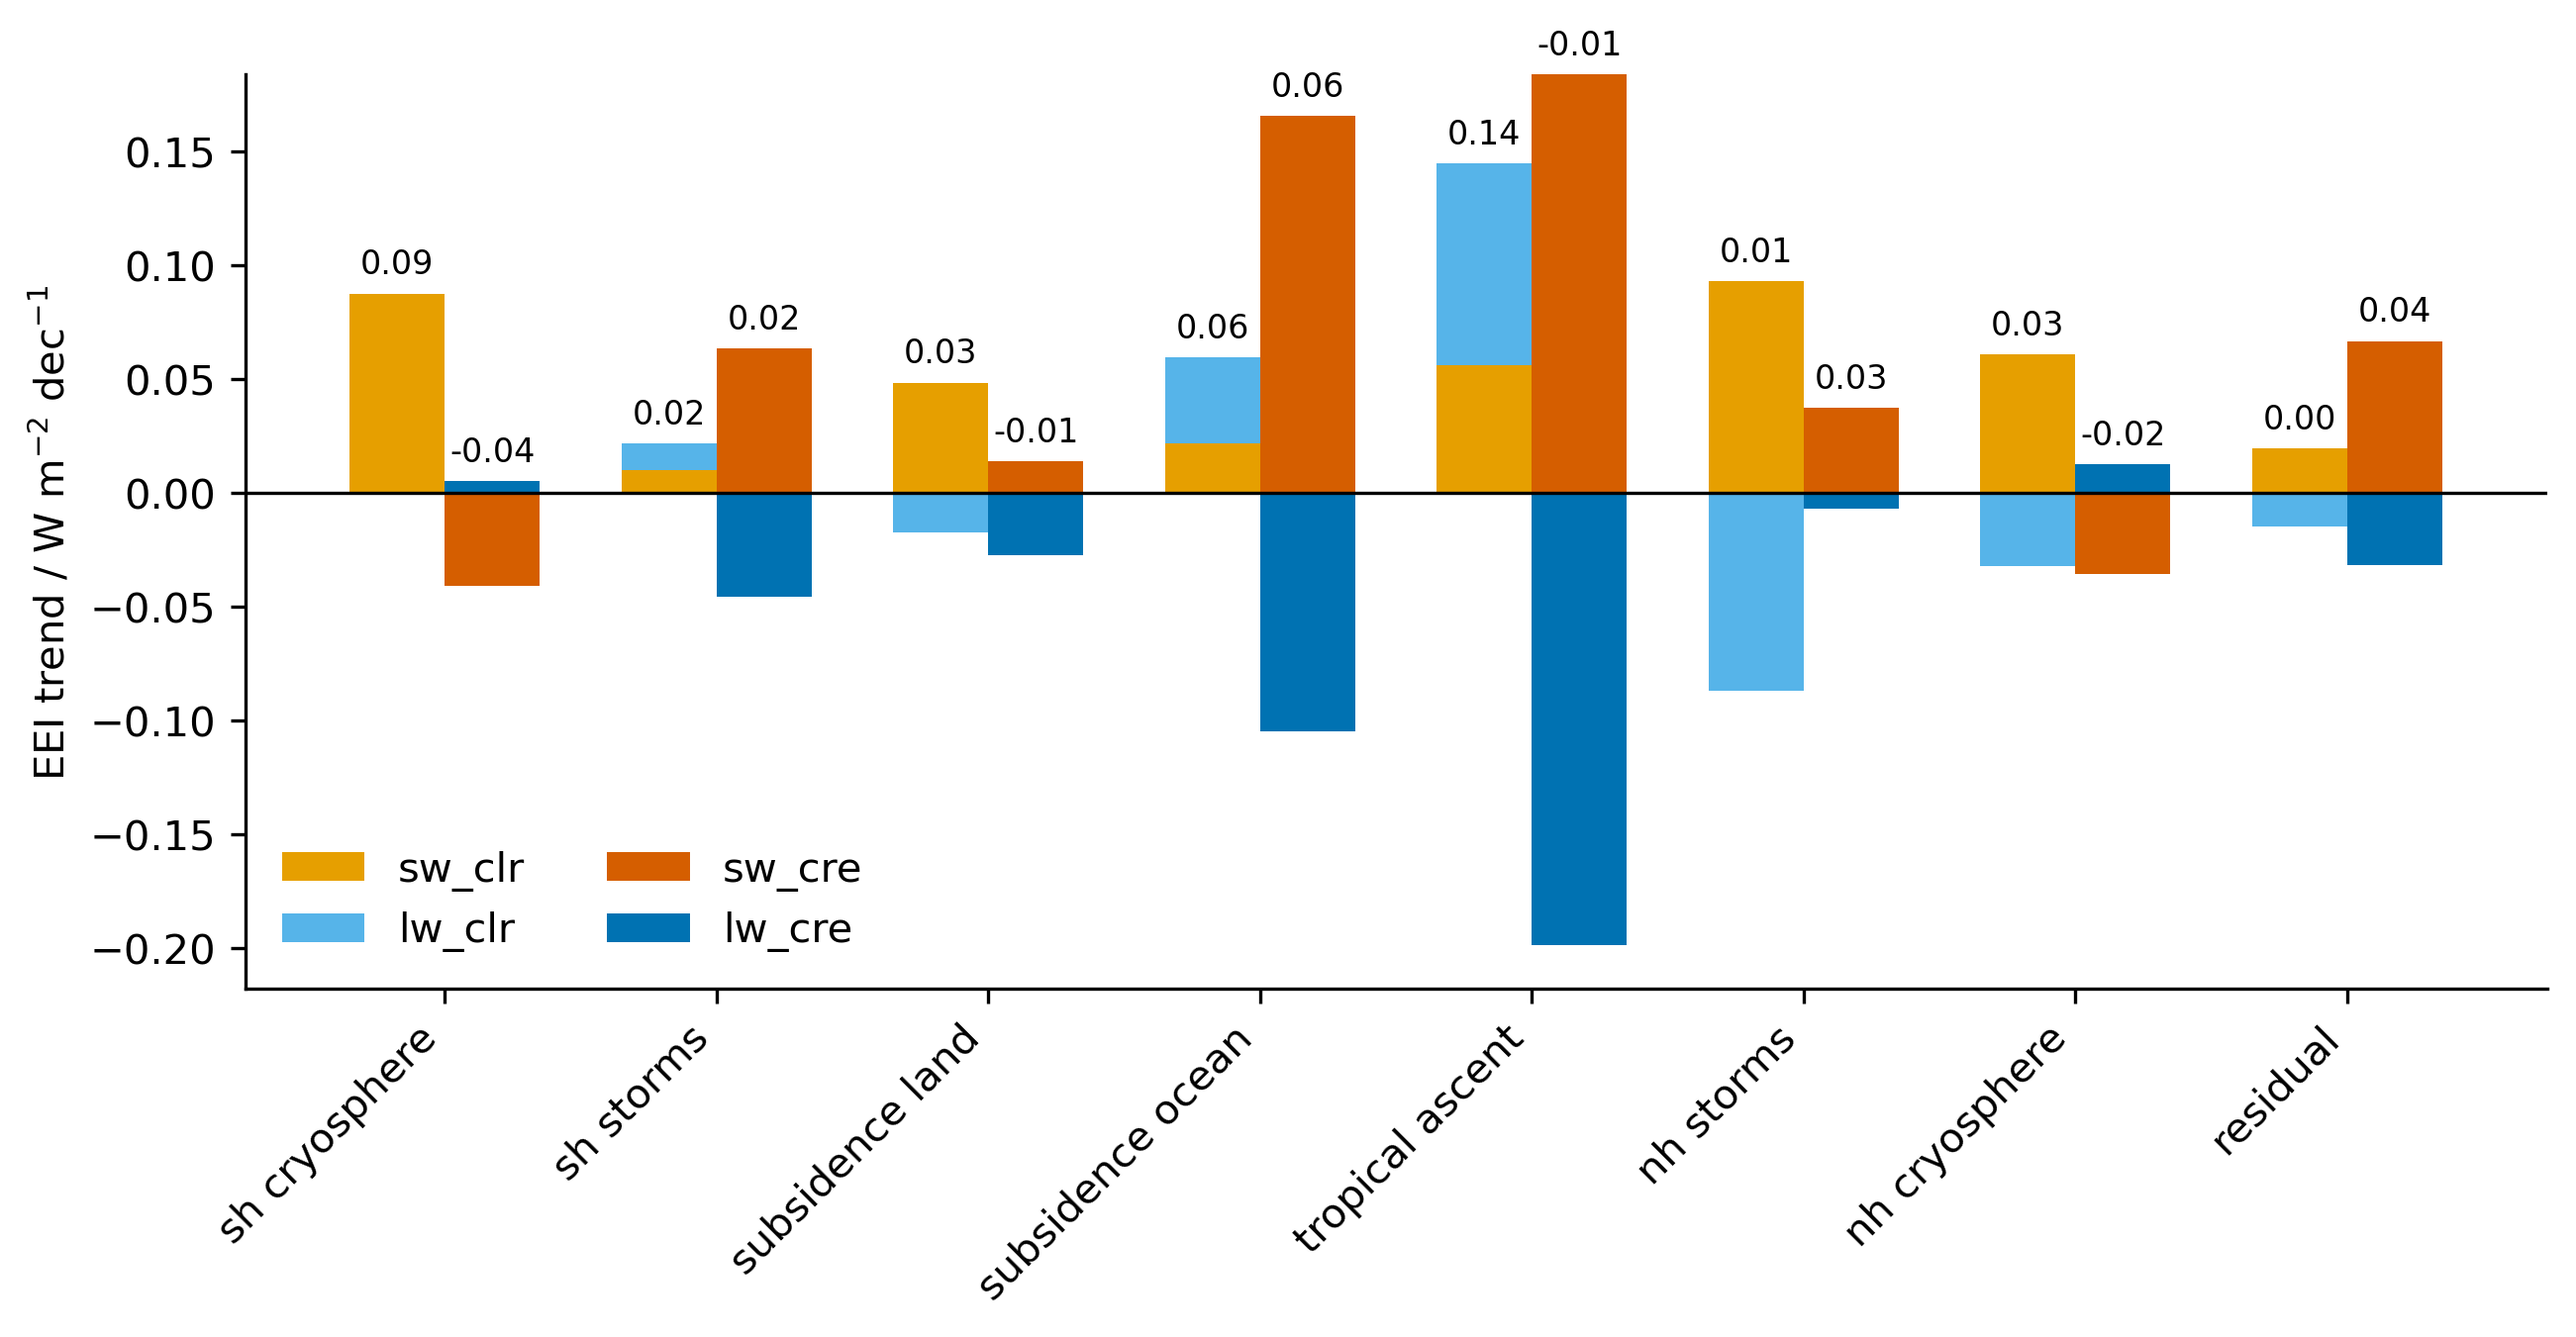
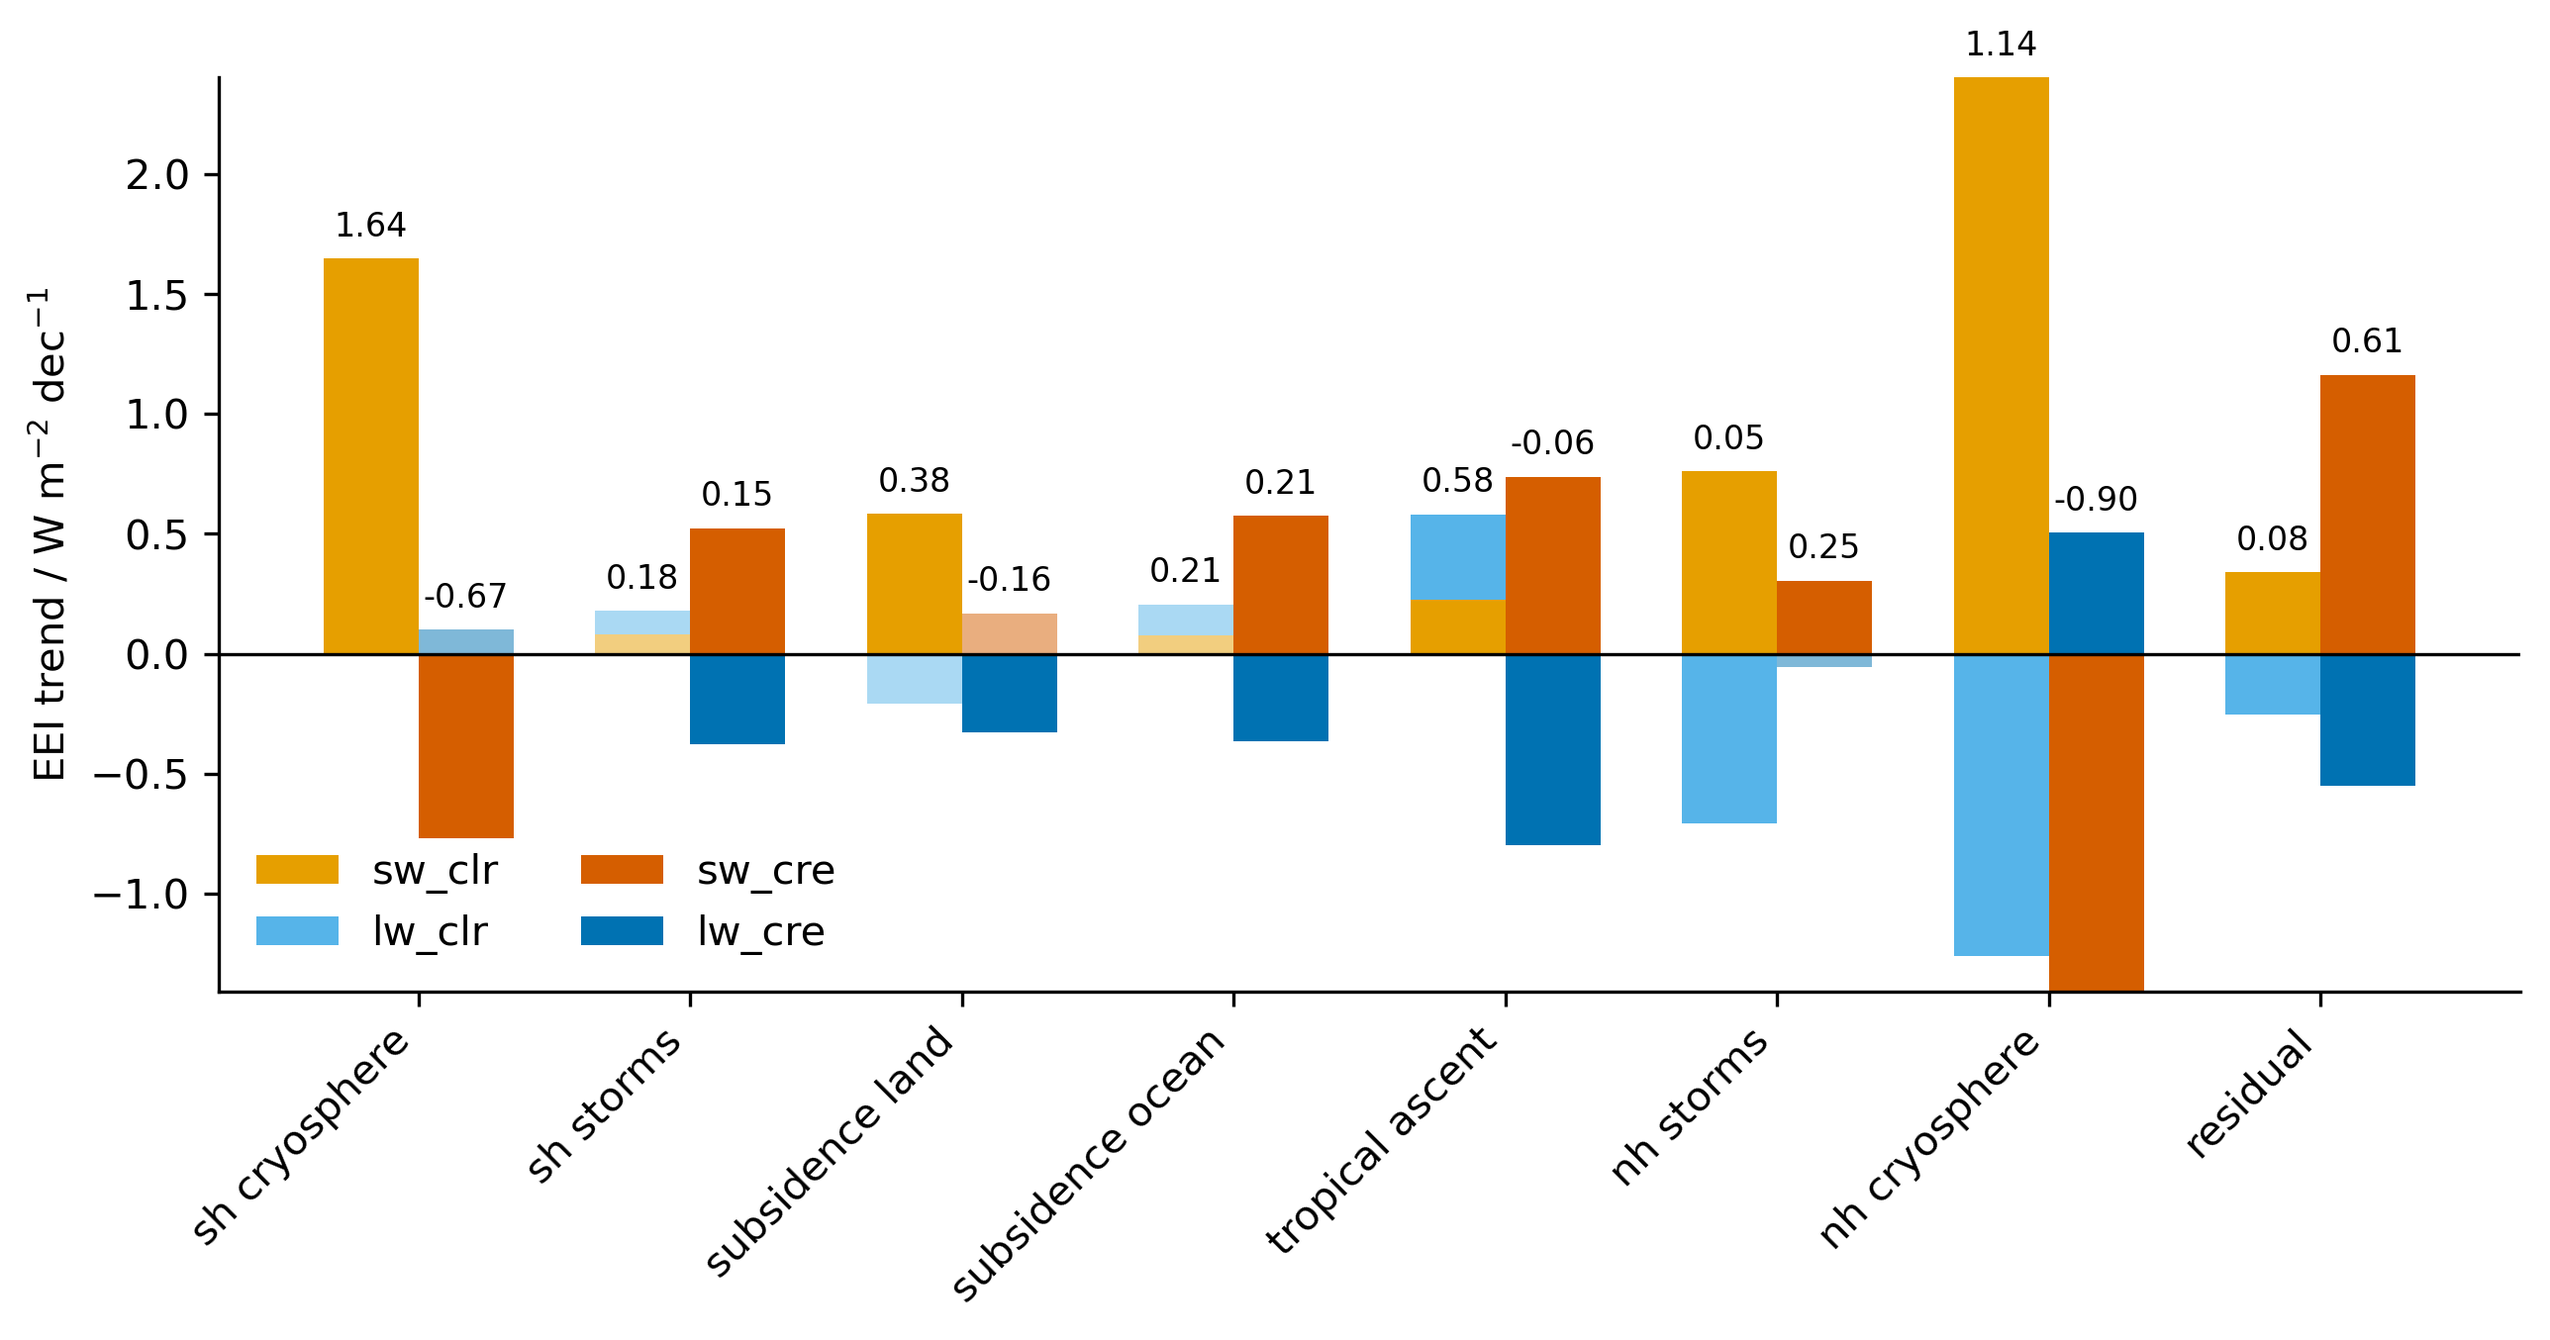
bar chart of sw/lw clr/cre trends within each regime. plot either as area-weighted (contribution to global) or as the within-regime mean (abs)

diff --git a/make_figs/figure_trends_per_regime.py b/make_figs/figure_trends_per_regime.py
@@ -3,6 +3,7 @@ import xarray as xr
 import matplotlib.pyplot as plt
 
 PLOT_SEASON = "ANN"
+AREA_WEIGHT = False
 
 # --- color scheme (physically intuitive) ---
 colors = {
@@ -20,14 +21,15 @@ ds = ds.sel(regime=[
     "nh_storms", "nh_cryosphere", "residual"
 ])
 regimes = ds.regime.values
+if not AREA_WEIGHT:
+    ds /= ds.area_fraction
 
 x = np.arange(len(regimes))
 width = 0.35  # bar width
+x = x - width/2
+alpha_light = 0.5
 
 fig, ax = plt.subplots(figsize=(10,4))
-
-x = x - width/2
-
 for i,sky in enumerate(["clr","cre"]):
     x += width*i
     bottom_pos = np.zeros(len(regimes))
@@ -35,25 +37,36 @@ for i,sky in enumerate(["clr","cre"]):
 
     for comp in ["sw", "lw"]:
         key = comp+"_"+sky
-        values = ds[key].values
+        values = ds[key+"_slope_mean"].values
+        ci = ds[key+"_slope_ci"].values
+        sig = np.abs(values) > ci
+
         pos = np.clip(values, 0, None)
         neg = np.clip(values, None, 0)
 
-        ax.bar(x - width/2, pos, width,
-           bottom=bottom_pos,
-           color=colors[key],
-           label=key)
+        for i,xi in enumerate(x):
+            ax.bar(x[i] - width/2, pos[i], width,
+                bottom=bottom_pos[i],
+                color=colors[key],
+                alpha=alpha_light + sig[i]*(1-alpha_light),
+                label=key,
+            )
 
-        ax.bar(x - width/2, neg, width,
-           bottom=bottom_neg,
-           color=colors[key],)
+            ax.bar(x[i] - width/2, neg[i], width,
+                bottom=bottom_neg[i],
+                color=colors[key],
+                alpha=alpha_light + sig[i]*(1-alpha_light),
+            )
 
         bottom_pos += pos
         bottom_neg += neg
     
-    net = ds["sw_"+sky].values + ds["lw_"+sky].values
+    net = ds["net_"+sky+"_slope_mean"].values
+    offset = 0.2
+    if AREA_WEIGHT:
+        offset /= 10
     for i in range(len(regimes)):
-        ax.text(x[i] - width/2, bottom_pos[i] + 0.02, f"{net[i]:.2f}",
+        ax.text(x[i] - width/2, bottom_pos[i] + offset, f"{net[i]:.2f}",
             ha="center", va="top", fontsize=8)
 
 
@@ -62,7 +75,10 @@ ax.set_xticks(x-width)
 rlabels = [r.replace("_"," ") for r in regimes]
 ax.set_xticklabels(rlabels, rotation=45, ha="right")
 
-ax.set_ylabel("EEI trend / W m$^{-2}$ dec$^{-1}$")
+if AREA_WEIGHT:
+    ax.set_ylabel("EEI trend area-weighted / W m$^{-2}$ dec$^{-1}$")
+else:
+    ax.set_ylabel("EEI trend / W m$^{-2}$ dec$^{-1}$")
 ax.axhline(0, color="k", linewidth=0.8)
 
 ax.spines["top"].set_visible(False)
@@ -73,5 +89,9 @@ handles, labels = ax.get_legend_handles_labels()
 by_label = dict(zip(labels, handles))
 ax.legend(by_label.values(), by_label.keys(), frameon=False, ncol=2, loc=3)
 
-plt.savefig(f"figures/regime_trend_barchart_{PLOT_SEASON}.png",
+if AREA_WEIGHT:
+    plt.savefig(f"figures/regime_trend_barchart_{PLOT_SEASON}_areaweight.png",
+            dpi=300, bbox_inches='tight')
+else:
+    plt.savefig(f"figures/regime_trend_barchart_{PLOT_SEASON}.png",
             dpi=300, bbox_inches='tight')
